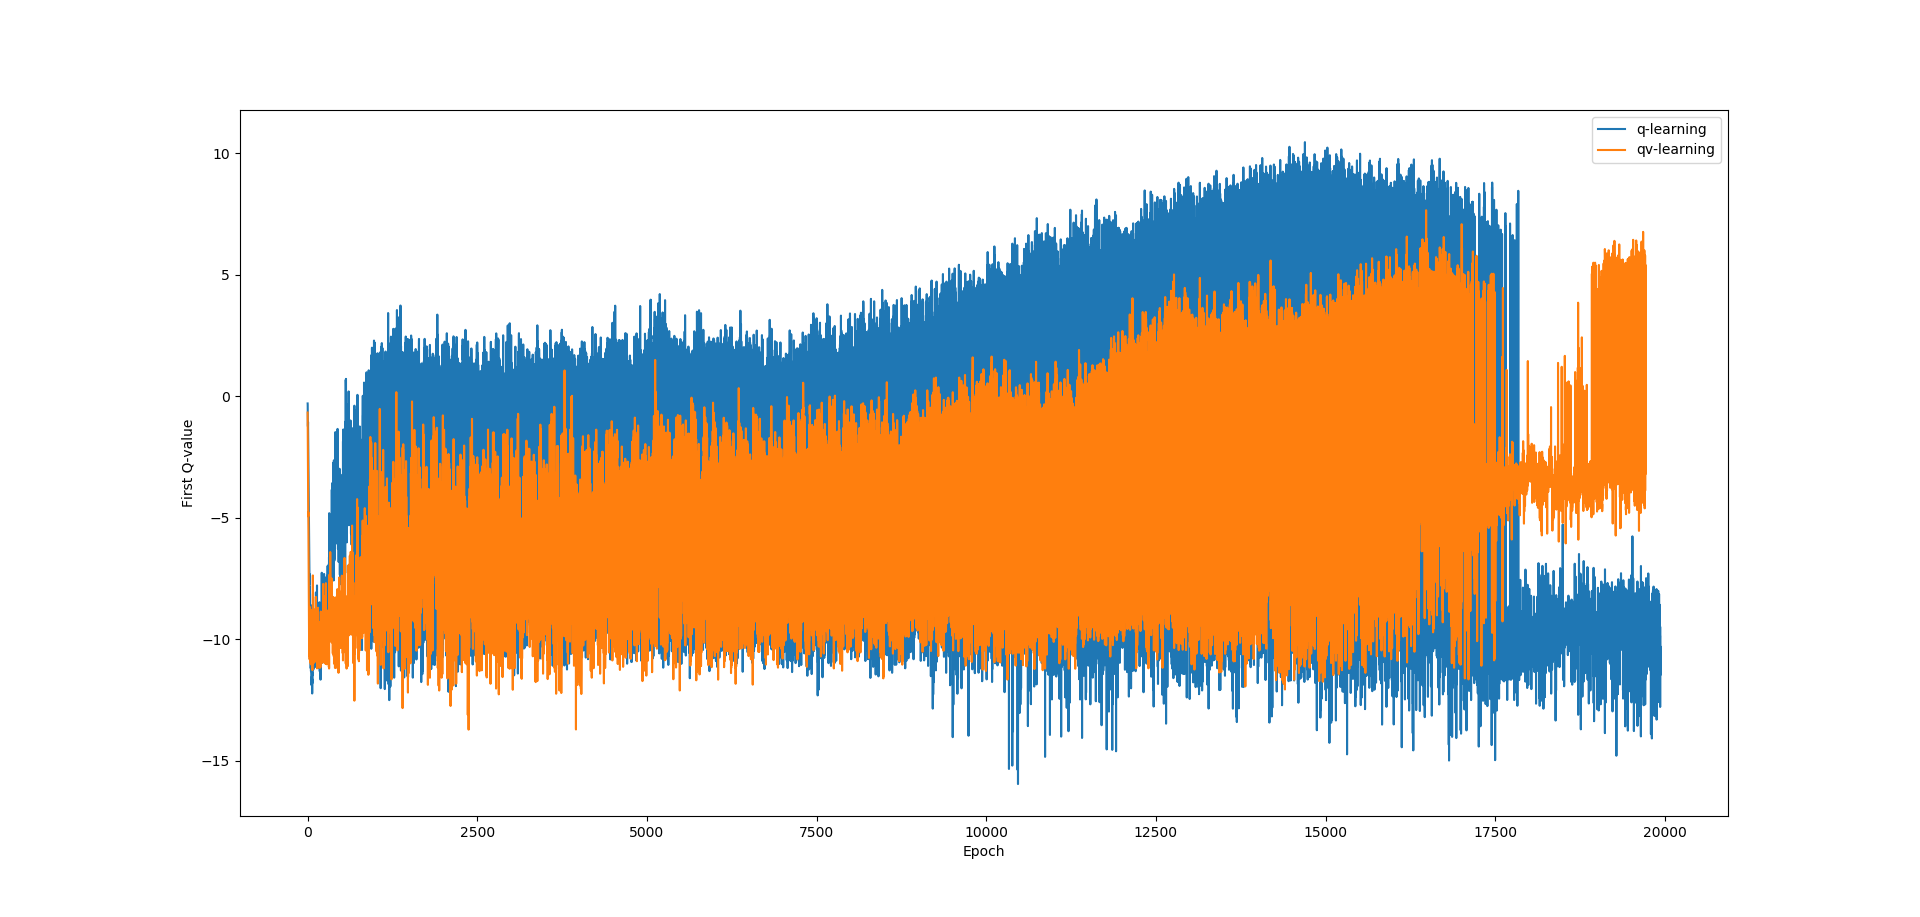
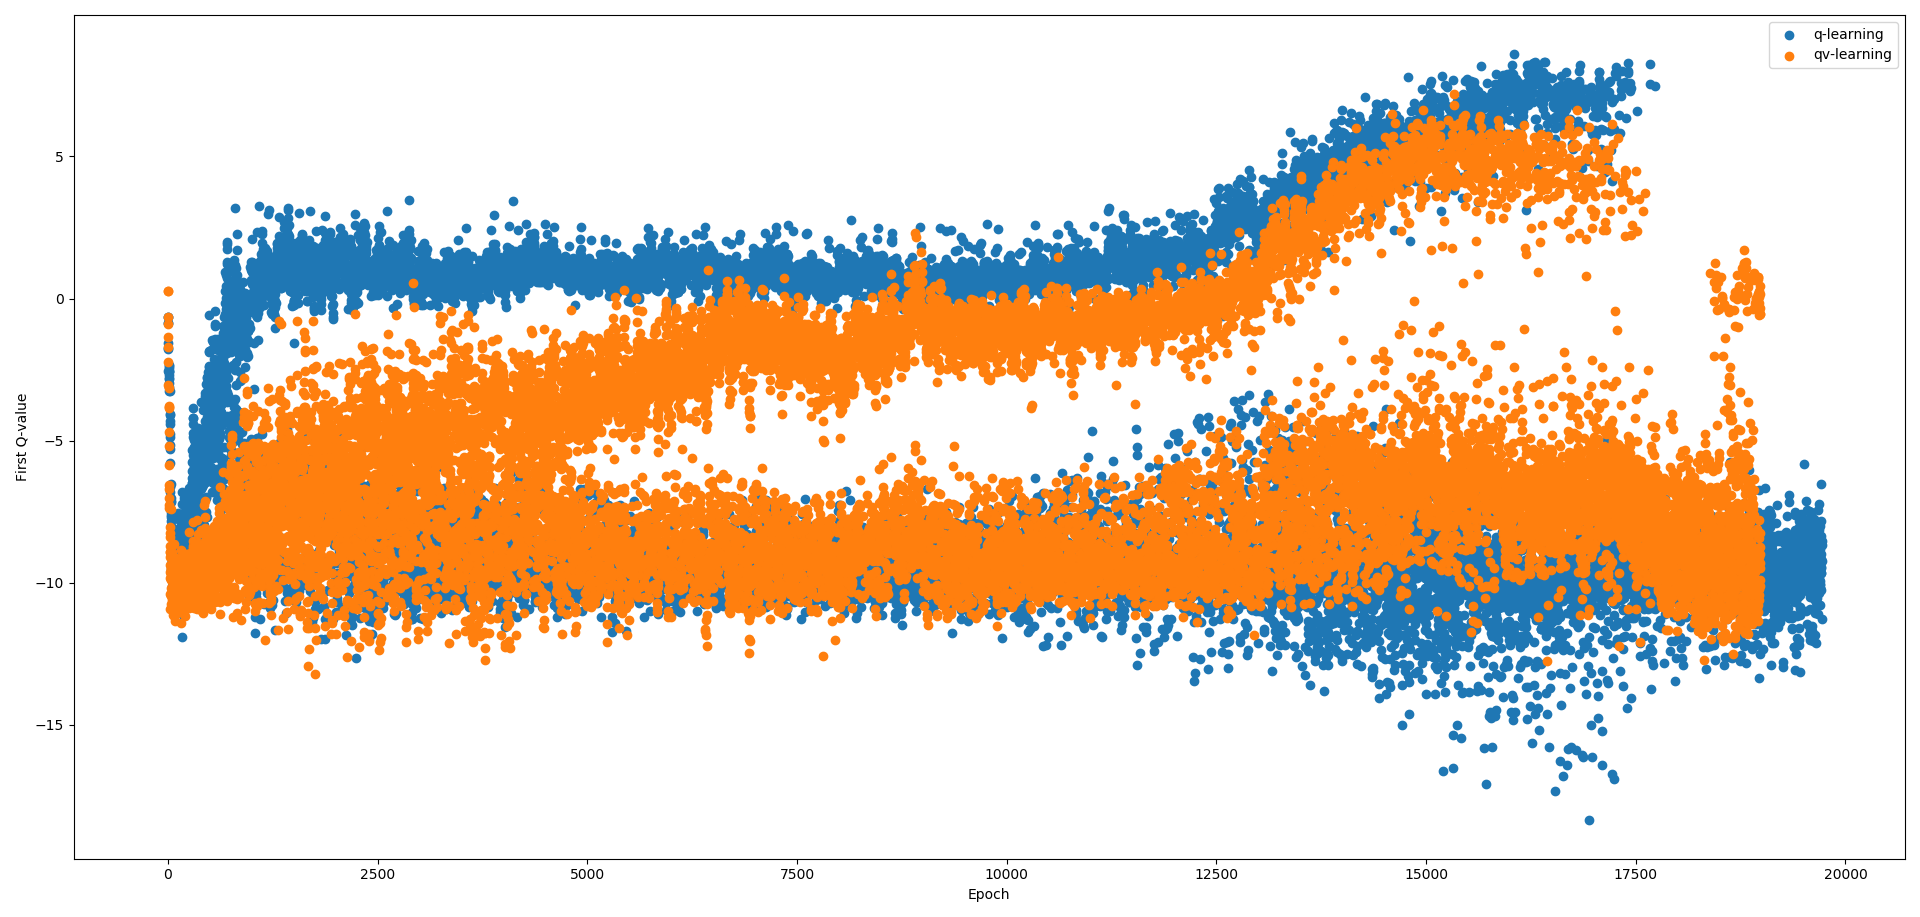
default reward -0.1

diff --git a/reinforcementLearning_snake/stats.py b/reinforcementLearning_snake/stats.py
@@ -78,7 +78,8 @@ def plot_directory(directory, epochs, epsilon0):
         filepath = directory + filename
         average = average_list_file(filepath)
         std = get_standard_deviation(filepath)
-        plt.errorbar(x_axis, average, yerr=std, capsize=2, label=filename)
+        # plt.errorbar(x_axis, average, yerr=std, capsize=2, label=filename)
+        plt.plot(x_axis, average, label=filename)
         # with open(filepath, "r") as file:
         #     model = eval(file.readline())
         # plt.plot(x_axis, model, label=filename)
@@ -87,16 +88,41 @@ def plot_directory(directory, epochs, epsilon0):
     plt.axvline(epsilon0, 0, 16, label='epsilon=0', c="BLACK")
     plt.legend()
     plt.show()
- 
+
+def rewards():
+    x = [i for i in range(0,19718)]
+    with open("q-learning_reward", "r") as file: 
+        y = eval(file.readline())
+        plt.scatter(x,y,label="q-learning rewards")
+    x = [i for i in range(0,18987)]
+    with open("qv-learning_reward", "r") as file: 
+        y = eval(file.readline())
+        plt.scatter(x,y,label="qv-learning rewards")
+    plt.xlabel("Epoch")
+    plt.ylabel("Cumulative reward")
+    plt.legend()
+    plt.show()
+
 def first_q_values():
-    x = [i for i in range(0,19935)]
+    x = [i for i in range(0,19718)]
     with open("q-learningfirst_q_values", "r") as file: 
         y = eval(file.readline())
-        plt.plot(x,y,label="q-learning")
-    x = [i for i in range(0,19714)]
+        plt.scatter(x,y,label="q-learning", marker='o')
+    print("one")
+    x = [i for i in range(0,19718)]
+    # with open("q-learning_reward", "r") as file: 
+    #     y = eval(file.readline())
+    #     plt.plot(x,y,label="q-learning rewards")
+    print("two")
+    x = [i for i in range(0,18987)]
     with open("qv-learningfirst_q_values", "r") as file: 
         y = eval(file.readline())
-        plt.plot(x,y,label="qv-learning")
+        plt.scatter(x,y,label="qv-learning")
+    print("three")
+    # with open("qv-learning_reward", "r") as file: 
+    #     y = eval(file.readline())
+    #     plt.plot(x,y,label="qv-learning rewards")
+    print("four")
     plt.xlabel("Epoch")
     plt.ylabel("First Q-value")
     plt.legend()

diff --git a/reinforcementLearning_snake/learning/algorithms.py b/reinforcementLearning_snake/learning/algorithms.py
@@ -54,9 +54,9 @@ def q_learning(timestep, model):
     model.mlp.fit(state.reshape(1,2 * param.vision_size**2 + 2),target_output,batch_size=1, epochs=1, callbacks=callback, verbose=0)
     state = new_state
     
-    if game_state.time_stuck > param.game_size**2:
-        got_stuck += 1
-        on_death()
+    # if game_state.time_stuck > param.game_size**2:
+    #     got_stuck += 1
+    #     on_death()
     
     #toggle for visualisation 
     # if param.epoch >= param.max_epochs:
@@ -94,9 +94,9 @@ def qv_learning(timestep, q_model, v_model):
     q_model.mlp.fit(state.reshape(1,2 * param.vision_size**2 + 2), target_output, batch_size=1, epochs=1, callbacks=callback, verbose=0)
     state = new_state
     
-    if game_state.time_stuck > param.game_size**2:
-        got_stuck += 1
-        on_death()
+    # if game_state.time_stuck > param.game_size**2:
+    #     got_stuck += 1
+    #     on_death()
 
 def qva_learning(timestep, q_model, v_model, a_model):
     global state
@@ -133,9 +133,9 @@ def qva_learning(timestep, q_model, v_model, a_model):
     state = new_state 
     # v_value = new_vValue
     
-    if game_state.time_stuck > param.game_size**2:
-        got_stuck += 1
-        on_death()
+    # if game_state.time_stuck > param.game_size**2:
+    #     got_stuck += 1
+    #     on_death()
 
 def qvmax_learning(timestep, q_model, v_model):
     global state

diff --git a/reinforcementLearning_snake/snakeGame/game.py b/reinforcementLearning_snake/snakeGame/game.py
@@ -25,7 +25,7 @@ class Game():
         self.tail_locations.append(self.head_location)
         new_state = numpy.zeros(2 * param.vision_size**2 + 2)
         # new_state = numpy.zeros(6)
-        reward = 0
+        reward = param.reward_default
         
         new_head_location = (self.head_location[0] + action[0], self.head_location[1] + action[1])
         #out of bounds

diff --git a/reinforcementLearning_snake/parameters.py b/reinforcementLearning_snake/parameters.py
@@ -1,5 +1,6 @@
 reward_apple = 1
 reward_dead = -10
+reward_default = -0.1
 reward_approach_apple = 0
 reward_avoid_apple = 0
 initial_snake_length = 3
